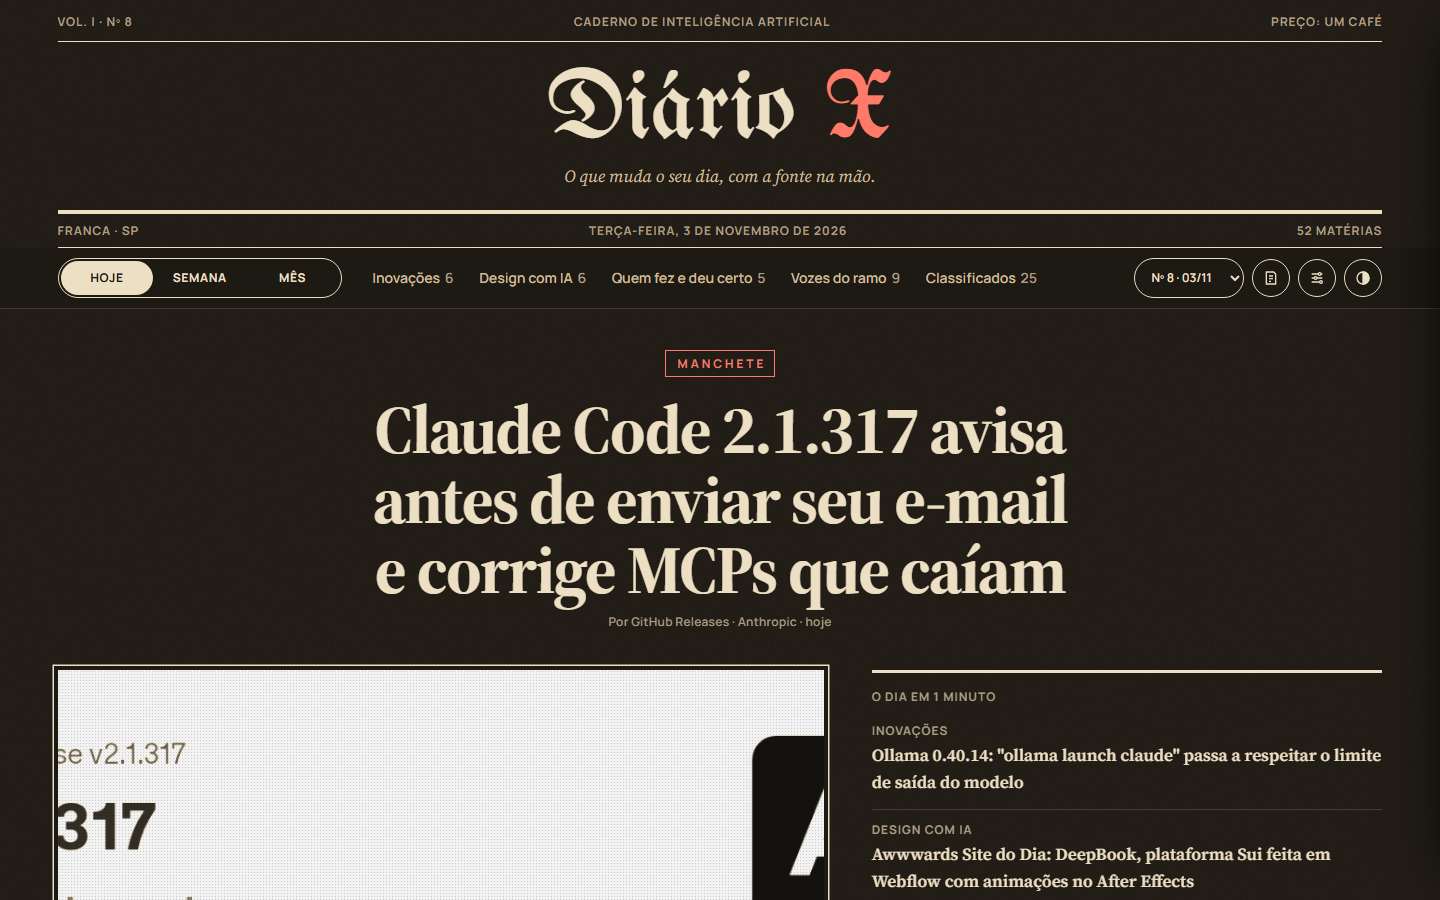
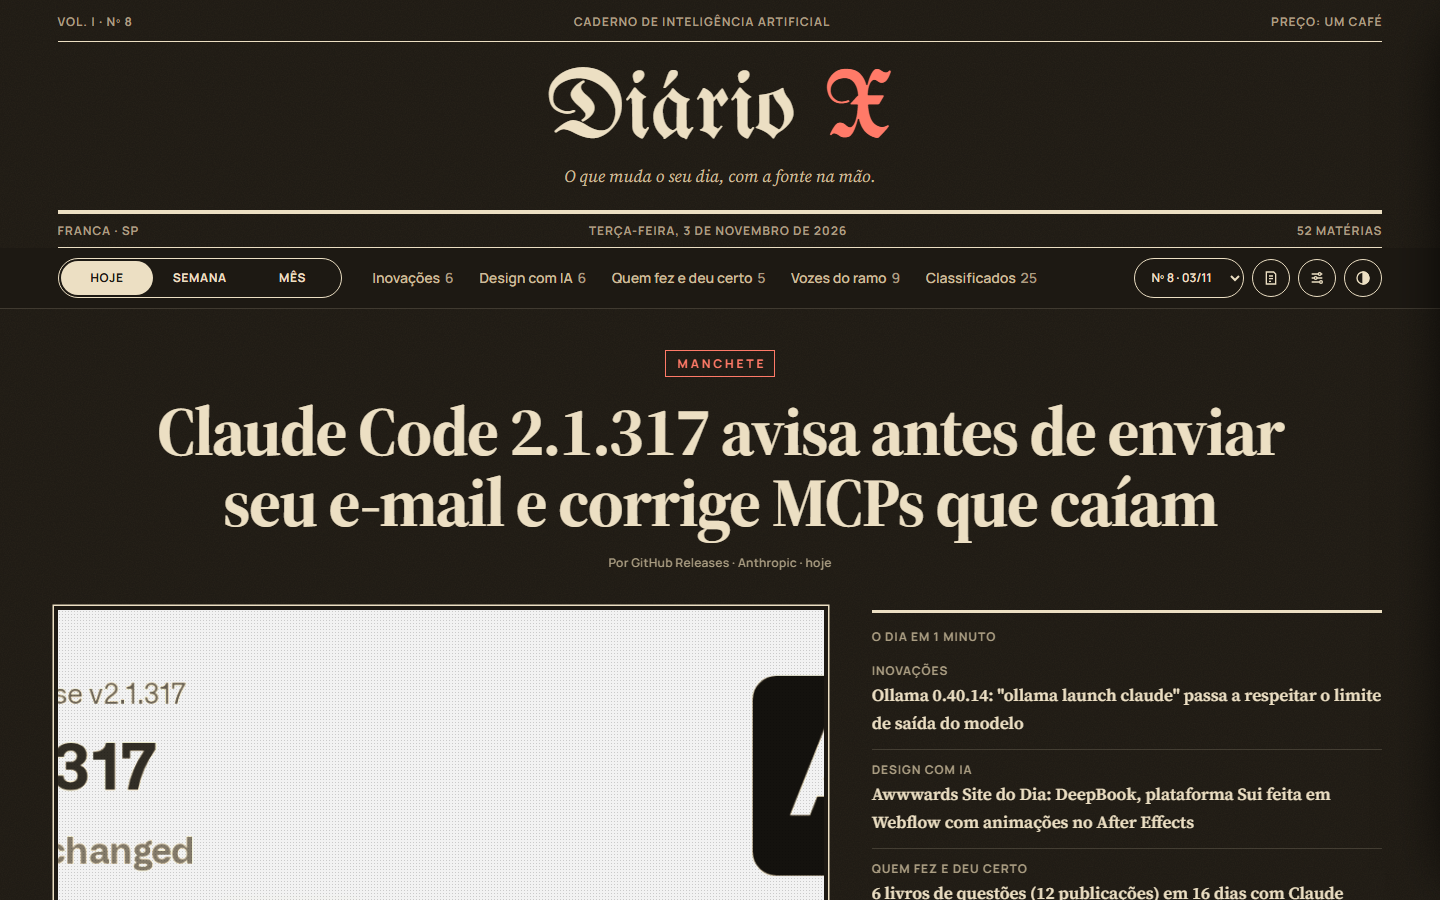
Jornal mais leve: "pra você" abre com clique, fotos nos cartões, colunas que se ajustam
- "Pra você" vira botão que abre a notinha
- Cartões com foto; sem foto, capa com o nome do portal quando a fileira tem fotos
- Até 3 colunas, e 2 matérias dividem a largura em vez de deixar buraco
- Seção sem foto de destaque: todas as matérias lado a lado, do mesmo tamanho
- Palavra do editor maior
- Coleta troca o link do Google Notícias pelo do portal (e ganha a foto), devagar e parando se o Google pedir pausa
- README com galeria de dentro da edição e celular

diff --git a/index.html b/index.html
@@ -116,9 +116,19 @@
   .ar-wide { aspect-ratio: 16 / 9; }
   .moldura { box-shadow: 0 0 0 4px var(--paper), 0 0 0 5.5px var(--rule-strong); }
 
-  /* ── "Pra você": a notinha ── */
-  .pv { margin: .8rem 0 1rem; padding: .6rem .8rem; background: color-mix(in srgb, var(--paper-2) 75%, transparent); border-radius: 2px; font: 600 var(--t-nota)/1.5 var(--sans); color: var(--ink); }
-  .pv b { display: block; font: 700 var(--t-rotulo)/1.3 var(--sans); letter-spacing: .08em; text-transform: uppercase; color: var(--accent-text); margin-bottom: .15rem; }
+  .ar-card { aspect-ratio: 16 / 9; margin-bottom: 1rem; }
+  .sem-foto { display: grid; place-items: center; padding: 1rem; text-align: center; border: 1px solid var(--rule); background: color-mix(in srgb, var(--paper-2) 80%, transparent); }
+  .sem-foto span { font: italic 400 clamp(1.2rem, 1.6vw, 1.6rem)/1.2 var(--serif); color: var(--ink-2); }
+  .sem-foto::after { display: none; }
+
+  /* ── "Pra você": fechado é um botão; aberto vira a notinha ── */
+  .pv { margin: .8rem 0 1rem; }
+  .pv summary { display: inline-flex; align-items: center; gap: .4rem; list-style: none; cursor: pointer; min-height: 32px; padding: .4rem .8rem; border-radius: 999px; border: 1.5px solid color-mix(in srgb, var(--accent-solid) 70%, transparent); font: 700 var(--t-rotulo)/1 var(--sans); letter-spacing: .08em; text-transform: uppercase; color: var(--accent-text); transition: background 160ms var(--ease); }
+  .pv summary::-webkit-details-marker { display: none; }
+  .pv summary::before { content: "+"; font-size: 1.1em; line-height: 1; transition: transform 200ms var(--ease); }
+  .pv[open] summary::before { transform: rotate(45deg); }
+  .pv summary:hover { background: color-mix(in srgb, var(--accent-solid) 12%, transparent); }
+  .pv p { margin: .6rem 0 0; padding: .6rem .8rem; font: 600 var(--t-nota)/1.5 var(--sans); color: var(--ink); }
 
   /* ações: tinta por padrão; vermelho só onde é a ação do dia */
   .actions { display: flex; align-items: center; gap: .5rem; flex-wrap: wrap; }
@@ -148,7 +158,7 @@
 
   .editorial { border-top: 1px solid var(--rule-strong); padding: 2.2rem 0 2.4rem; text-align: center; }
   .editorial .rotulo { display: block; margin-bottom: .9rem; }
-  .editorial p { margin: 0 auto; max-width: 64ch; font: italic 400 1.1875rem/1.65 var(--serif); color: var(--ink-2); text-wrap: pretty; }
+  .editorial p { margin: 0 auto; max-width: 62ch; font: italic 400 clamp(1.3rem, 1.5vw, 1.6rem)/1.6 var(--serif); color: var(--ink-2); text-wrap: pretty; }
 
   /* Skill para testar hoje */
   .teste { display: grid; grid-template-columns: minmax(0, 1fr) minmax(0, 1.4fr); gap: 2.4rem; border: 1.5px solid var(--rule-strong); padding: 1.8rem 2rem; margin-bottom: .6rem; }
@@ -170,7 +180,8 @@
 
   .feature { display: grid; grid-template-columns: minmax(0, 1fr) minmax(0, 1fr); gap: 2.6rem; align-items: center; padding: 2.2rem 0; border-bottom: 1px solid var(--rule); }
   .feature h3.titulo { font-size: var(--t-secao); line-height: 1.15; }
-  .cards { display: grid; grid-template-columns: repeat(3, minmax(0, 1fr)); gap: 0 2.8rem; }
+  /* até 3 colunas; com 2 matérias, as 2 dividem a largura em vez de deixar um buraco */
+  .cards { display: grid; grid-template-columns: repeat(auto-fit, minmax(max(260px, calc((100% - 5.6rem) / 3)), 1fr)); gap: 0 2.8rem; }
   .cards > article { padding: 1.8rem 0 2rem; border-bottom: 1px solid var(--rule); display: flex; flex-direction: column; }
   .cards .actions { margin-top: auto; }
   .cards .pv { margin-bottom: 1.1rem; }
@@ -249,7 +260,7 @@
   .section { counter-increment: sec; }
   .sec-head h2::before { content: "№ " counter(sec, decimal-leading-zero); display: block; margin-bottom: .35rem; font: 700 var(--t-rotulo)/1 var(--sans); letter-spacing: .14em; color: var(--accent-text); }
   .sec-head { align-items: flex-end; }
-  .pv { border-left: 3px solid var(--accent-solid); border-radius: 0 3px 3px 0; background: linear-gradient(90deg, color-mix(in srgb, var(--accent-solid) 9%, transparent), color-mix(in srgb, var(--paper-2) 70%, transparent) 70%); }
+  .pv p { border-left: 3px solid var(--accent-solid); border-radius: 0 3px 3px 0; background: linear-gradient(90deg, color-mix(in srgb, var(--accent-solid) 9%, transparent), color-mix(in srgb, var(--paper-2) 70%, transparent) 70%); }
   .cards > article { padding: 1.6rem 1.2rem 1.8rem; margin: 0 -1.2rem; border-bottom: 1px solid var(--rule); border-radius: 2px; transition: background 200ms var(--ease), box-shadow 200ms var(--ease); }
   .cards > article:hover { background: color-mix(in srgb, var(--paper-2) 55%, transparent); box-shadow: inset 3px 0 0 var(--accent-solid); }
   .ad { transition: transform 200ms var(--ease), box-shadow 200ms var(--ease); }
@@ -524,7 +535,17 @@ const noBloco = (url) => state.bloco.some((x) => x.fonte_url === url);
 const botaoNota = (url) => `<button class="note" data-nota="${esc(url)}" aria-pressed="${noBloco(url)}">${noBloco(url) ? '✓ No bloco' : '+ Bloco de notas'}</button>`;
 const fonte = (it) => `<a class="src" href="${esc(it.fonte_url)}" target="_blank" rel="noopener">Ler na fonte ${ICON_OUT}</a>`;
 let fotoN = 0;
+// cartão sem foto (ou com foto quebrada) ganha uma capa com o nome do portal, para a fileira ficar alinhada
+function trocarPorCapa(img) {
+  const s = document.createElement('span'); s.textContent = img.dataset.fonte;
+  img.parentElement.classList.add('sem-foto'); img.replaceWith(s);
+}
+const capa = (it) =>`<figure class="foto ar-card sem-foto"><span>${esc(it.fonte_nome)}</span></figure>`;
 function foto(it, cls) {
+  if (cls === 'ar-card') {
+    if (!it.imagem) return capa(it);
+    return `<figure class="foto ar-card" style="--d:-${(fotoN++ * 3.7) % 16}s"><img src="${esc(it.imagem)}" alt="" loading="lazy" referrerpolicy="no-referrer" data-fonte="${esc(it.fonte_nome)}" onerror="trocarPorCapa(this)"></figure>`;
+  }
   if (!it.imagem) return '';
   return `<figure class="foto ${cls}" style="--d:-${(fotoN++ * 3.7) % 16}s"><img src="${esc(it.imagem)}" alt="" loading="lazy" referrerpolicy="no-referrer" onerror="this.parentElement.remove()"></figure>`;
 }
@@ -532,7 +553,8 @@ function byline(it) {
   const trad = it.idioma && it.idioma !== 'pt' && it.titulo_original ? ` · <span class="trad">traduzido do ${IDIOMAS[it.idioma] || it.idioma}</span>` : '';
   return `<p class="byline">Por ${esc(it.fonte_nome)} · ${quando(it.publicado_em, state.sel)}${trad}</p>`;
 }
-const pv = (it) => `<p class="pv"><b>Pra você</b>${esc(it.pra_voce)}</p>`;
+// "pra você" fica fechado: a página respira e quem quer abre
+const pv = (it) => it.pra_voce ? `<details class="pv"><summary>Pra você</summary><p>${esc(it.pra_voce)}</p></details>` : '';
 const titulo = (it) => `<h3 class="titulo"><a href="${esc(it.fonte_url)}" target="_blank" rel="noopener">${esc(it.titulo)}</a></h3>`;
 
 function destaque(it) {
@@ -541,9 +563,10 @@ function destaque(it) {
     <div>${titulo(it)}${byline(it)}<p class="resumo">${esc(it.resumo)}</p>${pv(it)}<div class="actions">${fonte(it)}${botaoSalvar(it)}</div></div>
   </article>`;
 }
-function cartao(it, escondido) {
+// comFoto: algum cartão da seção tem foto; aí quem não tem ganha a capa, para a fileira alinhar
+function cartao(it, escondido, comFoto) {
   return `<article id="m-${esc(it.id)}"${escondido ? ' hidden' : ''}>
-    ${titulo(it)}${byline(it)}<p class="resumo">${esc(it.resumo)}</p>${pv(it)}<div class="actions">${fonte(it)}${botaoSalvar(it)}</div>
+    ${comFoto ? foto(it, 'ar-card') : ''}${titulo(it)}${byline(it)}<p class="resumo">${esc(it.resumo)}</p>${pv(it)}<div class="actions">${fonte(it)}${botaoSalvar(it)}</div>
   </article>`;
 }
 
@@ -648,10 +671,11 @@ function render() {
     let corpo;
     if (c.id === 'classificados') corpo = classificados(lista);
     else {
-      const [primeiro, ...outros] = lista;
+      // destaque só com foto; sem foto, todas as matérias da seção ficam lado a lado, do mesmo tamanho
+      const [primeiro, ...outros] = lista[0].imagem ? lista : [null, ...lista];
       const aberto = state.abertos.has(c.id);
-      corpo = destaque(primeiro)
-        + `<div class="cards">${outros.map((it, k) => cartao(it, !aberto && k >= VISIVEIS)).join('')}</div>`
+      corpo = (primeiro ? destaque(primeiro) : '')
+        + `<div class="cards">${outros.map((it, k) => cartao(it, !aberto && k >= VISIVEIS, outros.some((x) => x.imagem))).join('')}</div>`
         + botaoMais(c.id, outros.length - VISIVEIS, c.nome);
     }
     html += `<section class="section" id="${c.id}" data-bloco="${c.id}">

diff --git a/README.md b/README.md
@@ -30,6 +30,29 @@ Você conta quem é e o que quer ler. A IA escolhe as fontes, cria as seções e
 </tr>
 </table>
 
+## Por dentro de uma edição
+
+<table>
+<tr>
+<td width="50%"><img src="docs/img/secao-design.png" alt="Seção com foto de destaque e cartões"></td>
+<td width="50%"><img src="docs/img/pizzaria-secao.png" alt="Seção Delivery & Food Service do jornal da pizzaria"></td>
+</tr>
+<tr>
+<td align="center"><sub><b>Seções com fotos</b> · o "pra você" abre com um clique</sub></td>
+<td align="center"><sub><b>Seções criadas para a pessoa</b> · aqui, Delivery & Food Service</sub></td>
+</tr>
+<tr>
+<td width="50%"><img src="docs/img/editor.png" alt="Palavra do editor e passo a passo para testar hoje"></td>
+<td width="50%"><img src="docs/img/classificados.png" alt="Classificados com repositórios em alta"></td>
+</tr>
+<tr>
+<td align="center"><sub><b>Palavra do editor</b> e algo para testar hoje, em 3 passos</sub></td>
+<td align="center"><sub><b>Classificados</b> · repositórios em alta, por tipo</sub></td>
+</tr>
+</table>
+
+<p align="center"><img src="docs/img/mobile.png" alt="Diário X no celular" width="300"><br><sub><b>No celular</b></sub></p>
+
 ## Por que é diferente
 
 |   |   |
